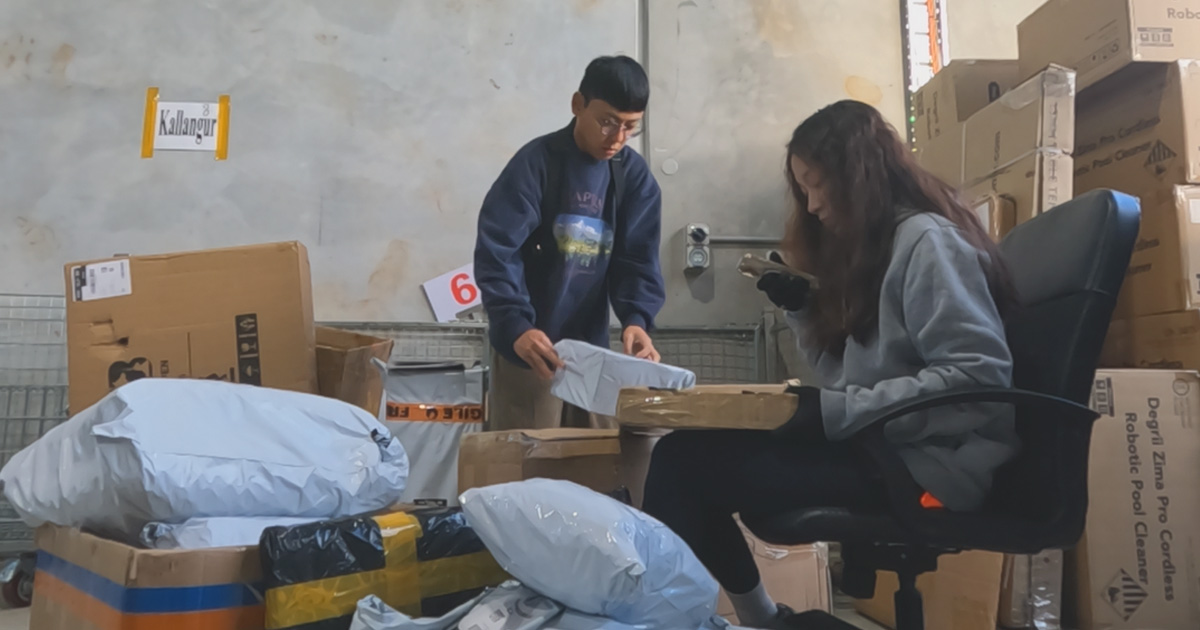
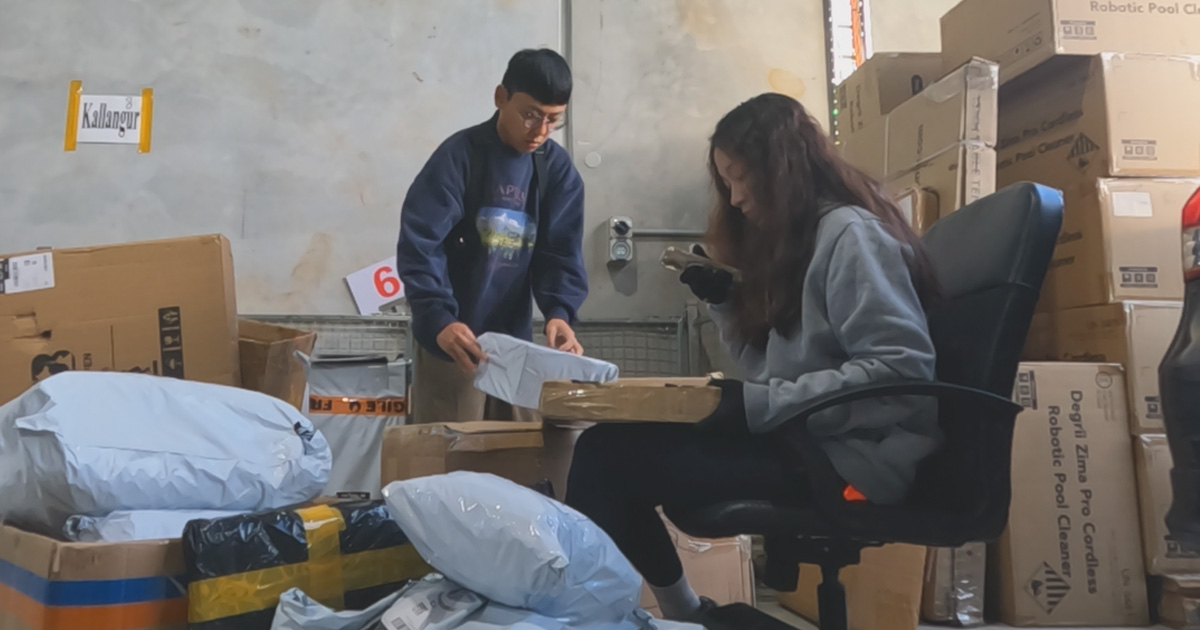
Add photos to journal-4

diff --git a/articles/journal-4/index.html b/articles/journal-4/index.html
@@ -200,7 +200,7 @@ footer p { font-size: 0.72rem; color: var(--ink-light); }
 
 <!-- Hero -->
 <div class="hero-wrap">
-  <div class="photo-slot" style="position:absolute;inset:0;margin:0;border-radius:0;border:none;aspect-ratio:unset;height:100%;"></div>
+  <img class="hero-img" src="hero.jpg" alt="在 Caboolture 的兼職生活">
   <div class="hero-overlay"></div>
   <div class="hero-content">
     <div class="article-meta-hero">
@@ -275,7 +275,7 @@ footer p { font-size: 0.72rem; color: var(--ink-light); }
 
     <p class="article-p" data-zh="我覺得這份工作最大的優點就是彈性非常高，不需要固定排班，有空的時候就可以去跑配送，對於當時還需要在農場工作的我來說，真的是非常方便。" data-en="The biggest perk of this job was the flexibility. No fixed roster — I could just show up when I was free. For someone still juggling farm work, it was genuinely ideal.">我覺得這份工作最大的優點就是彈性非常高，不需要固定排班，有空的時候就可以去跑配送，對於當時還需要在農場工作的我來說，真的是非常方便。</p>
 
-    <div class="photo-slot"><span class="photo-slot-label" data-zh="照片" data-en="Photo">照片</span></div>
+    <img class="article-img" src="01.jpg" alt="工作的開始" loading="lazy">
   </div>
 
   <hr class="sec-divider">
@@ -321,9 +321,13 @@ footer p { font-size: 0.72rem; color: var(--ink-light); }
 
     <p class="article-p" data-zh="雖然表面上看起來一個包裹有 AUD $2 的收入，但實際上還需要考慮許多沒有計薪的準備時間，以及無法成功配送的包裹。這也是我覺得按件計酬工作很重要的一點：不能只看每個包裹能賺多少，還必須計算整個工作流程所花費的時間。" data-en="AU$2 per parcel sounds straightforward, but you have to factor in all the unpaid prep time and failed deliveries. That's what I think matters most with per-parcel work: don't just calculate what each parcel earns — calculate what the whole process actually costs in time.">雖然表面上看起來一個包裹有 AUD $2 的收入，但實際上還需要考慮許多沒有計薪的準備時間，以及無法成功配送的包裹。這也是我覺得按件計酬工作很重要的一點：不能只看每個包裹能賺多少，還必須計算整個工作流程所花費的時間。</p>
 
-    <div class="photo-grid">
-      <div class="photo-slot"><span class="photo-slot-label" data-zh="照片" data-en="Photo">照片</span></div>
-      <div class="photo-slot"><span class="photo-slot-label" data-zh="照片" data-en="Photo">照片</span></div>
+    <div class="article-img-grid">
+      <div>
+        <img src="02.jpg" alt="送貨流程" loading="lazy" style="width:100%;aspect-ratio:4/3;object-fit:cover;border-radius:10px;display:block;">
+      </div>
+      <div>
+        <img src="03.jpg" alt="送貨流程" loading="lazy" style="width:100%;aspect-ratio:4/3;object-fit:cover;border-radius:10px;display:block;">
+      </div>
     </div>
   </div>
 
@@ -348,7 +352,7 @@ footer p { font-size: 0.72rem; color: var(--ink-light); }
 
     <p class="article-p" data-zh="也因為這樣，我們慢慢發現，送貨這份工作並不是單純比誰開車快，而是如何安排路線、如何分配工作，以及如何在有限的時間內完成更多配送。" data-en="And through that process, we gradually realised this job wasn't about who could drive fastest. It was about planning the route well, dividing tasks efficiently, and finding ways to fit more deliveries into every hour.">也因為這樣，我們慢慢發現，送貨這份工作並不是單純比誰開車快，而是如何安排路線、如何分配工作，以及如何在有限的時間內完成更多配送。</p>
 
-    <div class="photo-slot"><span class="photo-slot-label" data-zh="照片" data-en="Photo">照片</span></div>
+    <img class="article-img" src="04.jpg" alt="與時間賽跑" loading="lazy">
   </div>
 
   <hr class="sec-divider">
@@ -370,9 +374,13 @@ footer p { font-size: 0.72rem; color: var(--ink-light); }
 
     <p class="article-p" data-zh="除此之外，這份工作也大幅提升了我的駕駛能力，以及使用 Google Maps 規劃路線的熟練度。從一開始還需要花時間確認每個路口，到後來可以很自然地判斷方向、安排路線，甚至在不熟悉的地方也能保持冷靜。現在回頭想想，這段經歷對我後來在澳洲的生活幫助真的很大。即使之後需要一次開上六個小時的長途車程，也不再像以前那樣感到緊張或有壓力。" data-en="On top of that, the job dramatically improved my driving confidence and my Google Maps routing skills. At the start I needed time to check every junction; by the end I was reading directions naturally, planning on the fly, staying calm in unfamiliar streets. Looking back, that experience paid dividends later in my time in Australia — even a six-hour solo drive no longer felt daunting.">除此之外，這份工作也大幅提升了我的駕駛能力，以及使用 Google Maps 規劃路線的熟練度。從一開始還需要花時間確認每個路口，到後來可以很自然地判斷方向、安排路線，甚至在不熟悉的地方也能保持冷靜。現在回頭想想，這段經歷對我後來在澳洲的生活幫助真的很大。即使之後需要一次開上六個小時的長途車程，也不再像以前那樣感到緊張或有壓力。</p>
 
-    <div class="photo-grid">
-      <div class="photo-slot"><span class="photo-slot-label" data-zh="照片" data-en="Photo">照片</span></div>
-      <div class="photo-slot"><span class="photo-slot-label" data-zh="照片" data-en="Photo">照片</span></div>
+    <div class="article-img-grid">
+      <div>
+        <img src="05.jpg" alt="意料之外的收穫" loading="lazy" style="width:100%;aspect-ratio:4/3;object-fit:cover;border-radius:10px;display:block;">
+      </div>
+      <div>
+        <img src="06.jpg" alt="意料之外的收穫" loading="lazy" style="width:100%;aspect-ratio:4/3;object-fit:cover;border-radius:10px;display:block;">
+      </div>
     </div>
   </div>
 
@@ -391,7 +399,7 @@ footer p { font-size: 0.72rem; color: var(--ink-light); }
       <p data-zh="或許旅行不一定要安排目的地，有時候只是為了完成一份工作，也能讓自己看見不一樣的風景。" data-en="Maybe travel doesn't always need a destination. Sometimes just doing a job is enough to show you a view you'd never have seen otherwise.">或許旅行不一定要安排目的地，有時候只是為了完成一份工作，也能讓自己看見不一樣的風景。</p>
     </div>
 
-    <div class="photo-slot"><span class="photo-slot-label" data-zh="照片" data-en="Photo">照片</span></div>
+    <img class="article-img" src="07.jpg" alt="結語" loading="lazy">
 
     <div class="article-footer">
       <p>Jackey · 2026 · North Lakes, QLD</p>
